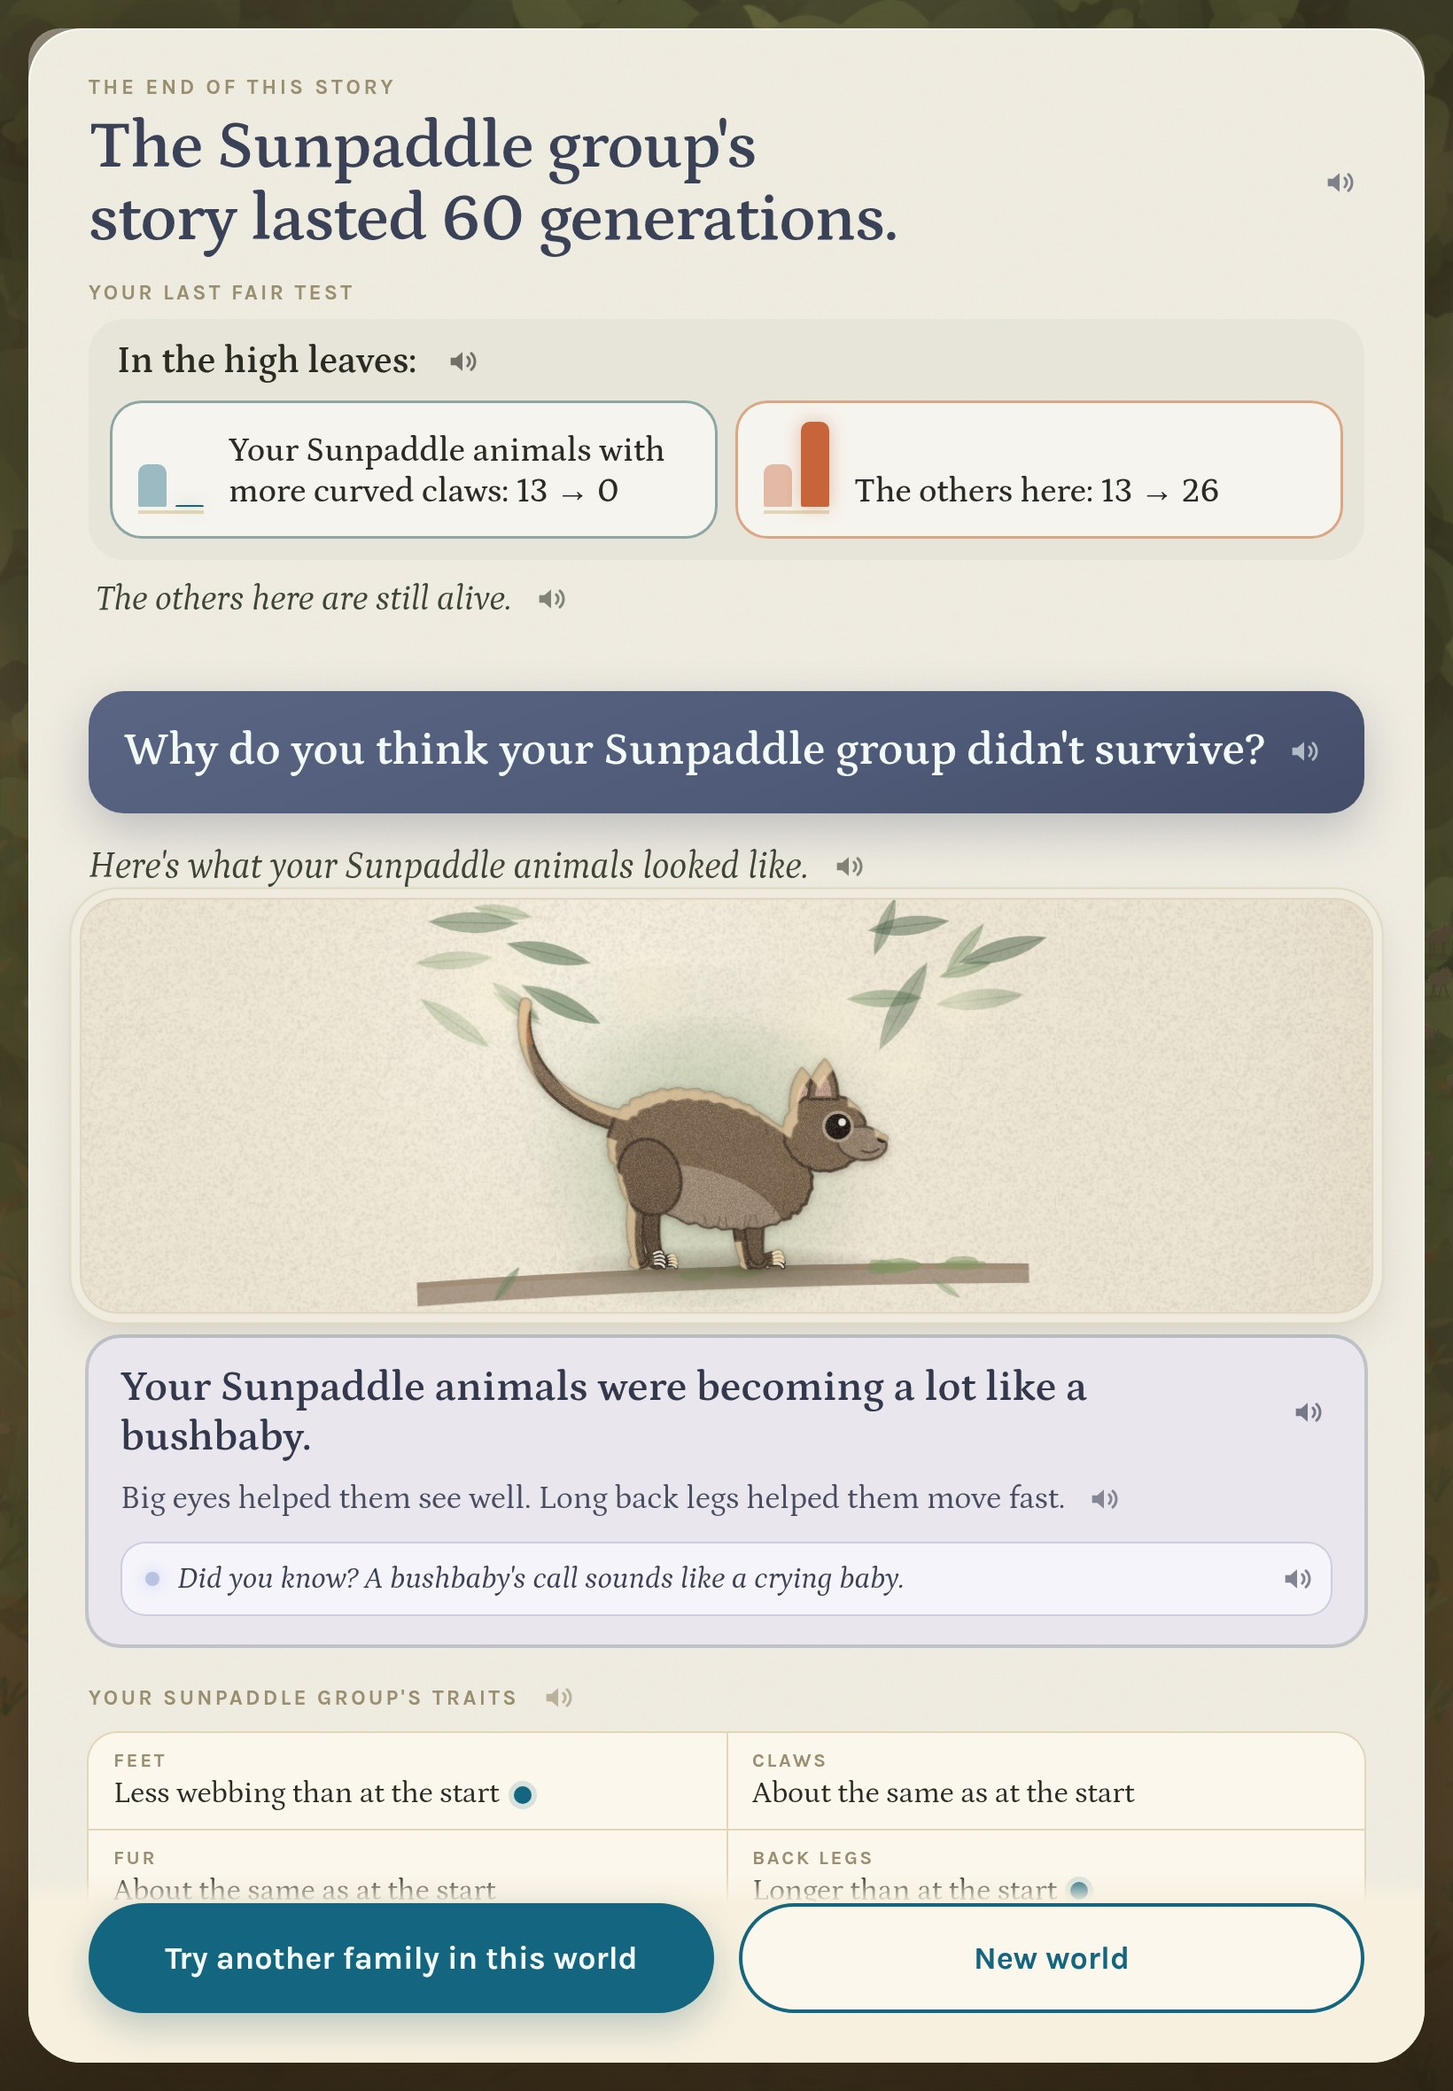
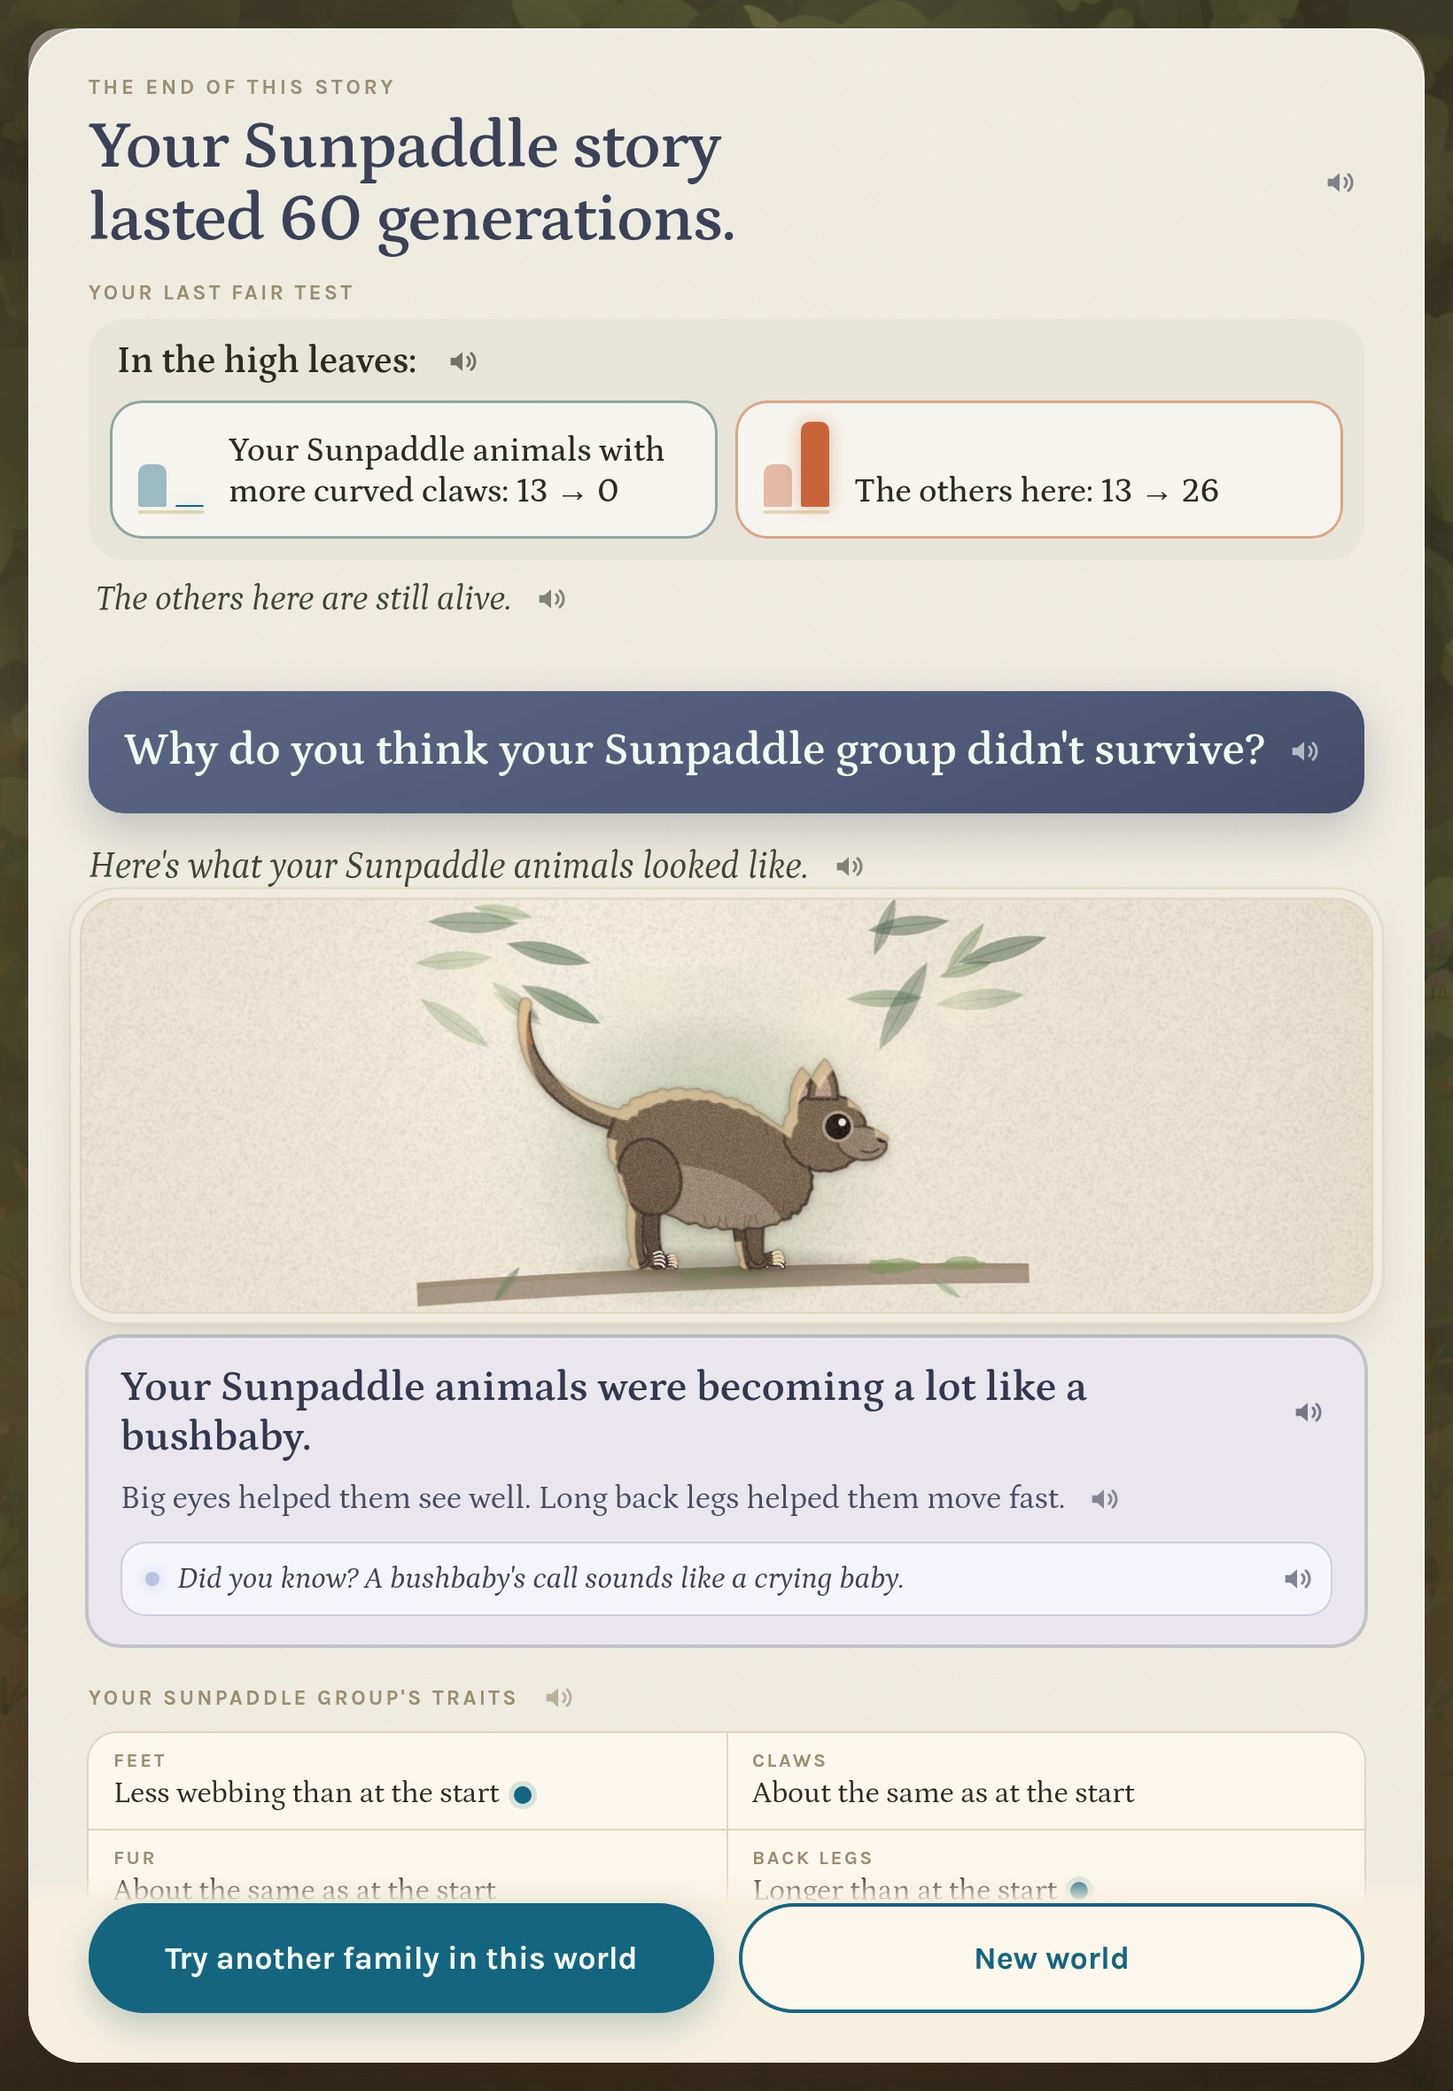
Marc's name fixes: Stonerunner, "now", the died-out title, the home button
- "Stonerunner" joins the names never made (names.js); the names doc
  is regenerated from it: 323 names.
- "Most of your Mossfoot group has webbed feet." drops "now", for
  every variant, with or without a name.
- The died-out title is "Your Mossfoot story lasted 60 generations."
  ("Your story lasted 60 generations." without a name).
- The home button says "Back to my Mossfoot family" until the first
  follow, then "Back to my Mossfoot group" ("Back to my family" /
  "Back to my group" without a name).

The died-out ending is shot again in design/after/; no other shot
shows these lines. lineage-m1 is unchanged.

Claude-Session: https://claude.ai/code/session_01GSopAEV6FFZ4i4mLAerJib

Changed region(s): [[0.0622, 0.0309, 0.622, 0.1237]]

diff --git a/game/src/narration.js b/game/src/narration.js
@@ -87,7 +87,7 @@ export function chosenLines(group, n, others, zone, skip) {
  */
 export function skipDoneLines(skip, n, others, changed, noun, name = null) {
   const lines = [`${skip} generations later: ${name ? your("animals", name) : "yours"} ${n}, the others here ${others}.`];
-  if (changed.length) lines.push(`Most of ${your(noun, name)} now has ${hasWords(changed[0].trait, changed[0].level)}.`);
+  if (changed.length) lines.push(`Most of ${your(noun, name)} has ${hasWords(changed[0].trait, changed[0].level)}.`);
   return lines;
 }
 
@@ -180,7 +180,7 @@ export const madeIt = (noun, name = null) => `${capital(your(noun, name))} made 
 
 export function endingTitle(outcome, n, noun, name = null) {
   return outcome === "died" ?
-    `${name ? `The ${name} ${noun}'s` : "Their"} story lasted ${plural(n, "generation", "generations")}.` :
+    `${capital(your("story", name))} lasted ${plural(n, "generation", "generations")}.` :
     `${capital(your(noun, name))} survived ${plural(n, "generation", "generations")}.`;
 }
 
@@ -222,5 +222,5 @@ export const lookLine = (outcome, name = null) =>
 /** The real-animal reveal (reveal.js) with the family's name: "Your Mossfoot animals became paddlers, …". */
 export const namedReveal = (line, name = null) => (name ? line.replace(/^Your animals\b/, `Your ${name} animals`) : line);
 
-/** "Back to my group", with the family's name once it has one. */
-export const homeLabel = (name = null) => `Back to my ${name ? `${name} ` : ""}group`;
+/** "Back to my family" until the first follow, then "Back to my group", with the family's name once it has one. */
+export const homeLabel = (noun, name = null) => `Back to my ${name ? `${name} ` : ""}${noun}`;

diff --git a/game/src/main.js b/game/src/main.js
@@ -430,10 +430,10 @@ export class Game {
     this.showMute();
   }
 
-  /** "Back to my group", with the family's name once it has one. */
+  /** "Back to my family" until the first follow, then "Back to my group", with the family's name once it has one. */
   setHomeLabel() {
     const text = [...this.homeEl.childNodes].find((n) => n.nodeType === 3);
-    if (text) text.nodeValue = homeLabel(this.story?.name ?? null);
+    if (text) text.nodeValue = homeLabel(this.story?.noun ?? "family", this.story?.name ?? null);
   }
 
   /**
@@ -540,6 +540,7 @@ export class Game {
    */
   doFollow(x, byChance) {
     this.story.follow(x, byChance);
+    this.setHomeLabel(); // "family" becomes "group" at the first follow
     this.syncGroups();
     this.updateCard();
     this.centerOnGroup();

diff --git a/game/src/names.js b/game/src/names.js
@@ -49,7 +49,7 @@ export const TRAIT_NAME_WORDS = {
  * List 3: names the game never makes. Besides these, no name joins two of the
  * same letter where the halves meet ("Leaffoot"), because that is hard to read.
  */
-export const NEVER = ["Grasshopper", "Leafhopper", "Sandhopper"]; // real small animals, not a family's name
+export const NEVER = ["Grasshopper", "Leafhopper", "Sandhopper", "Stonerunner"]; // real small animals, and one Marc left out
 
 /** A first half and a second half that may be joined. */
 export const joins = (start, end) => start[start.length - 1].toLowerCase() !== end[0] && !NEVER.includes(start + end);

diff --git a/game/index.html b/game/index.html
@@ -43,7 +43,7 @@
   <!-- A variation: a short caption beside the newborn that blooms (Step 4). -->
   <div id="bloom" hidden><span class="spark"></span><span id="bloom-line"></span></div>
 
-  <button id="home" type="button"><span class="ring"><i></i></span>Back to my group</button>
+  <button id="home" type="button"><span class="ring"><i></i></span>Back to my family</button>
 
   <!-- Sound on or off (Step 5): remembered on this device. -->
   <button id="mute" type="button" aria-label="Sound off" aria-pressed="false"></button>

diff --git a/docs/LINEAGE_FAMILY_NAMES.md b/docs/LINEAGE_FAMILY_NAMES.md
@@ -1,6 +1,6 @@
 # LINEAGE — family names
 
-*Step 5, part two (2026-09-26). The word lists and the naming rule, for Marc to check. The game builds every name from `game/src/names.js`; this page is written from that file, so the two always agree.*
+*Step 5, part two (2026-09-26), with Marc's changes after checking it: "Stonerunner" is never made, "now" left the "Most of your … has …" line, and the died-out title and the home button changed. The game builds every name from `game/src/names.js`; this page is written from that file, so the two always agree.*
 
 ## When a family is named
 
@@ -46,13 +46,14 @@ A name is one word made of two halves: a word for the family's **habitat** (list
 ## List 3 — names never made
 
 - **Real small animals, not a family's name:** Grasshopper, Leafhopper, Sandhopper.
+- **Left out by Marc:** Stonerunner.
 - **Same letter where the halves meet** (hard to read): Mossswish, Mossstripe, Leaffoot, Leaffur, Leaffluff, Twiggrip, Twigglide, Sanddash, Grassswish, Grassstripe, Cloverrunner, Meadowwink, Reeddash, Riverrunner, Ponddash.
 
-## Every name the game can make (324)
+## Every name the game can make (323)
 
 **The high leaves (106):** Mossfoot, Mosspaddle, Mossclaw, Mossgrip, Mossfur, Mossfluff, Mossrunner, Mosshopper, Mosstail, Mossblink, Mosswink, Mossglide, Mossdash, Mosscoat, Mosscloak, Mosstuft, Mosstip, Leafpaddle, Leafclaw, Leafgrip, Leafrunner, Leaftail, Leafswish, Leafblink, Leafwink, Leafglide, Leafdash, Leafcoat, Leafcloak, Leaftuft, Leaftip, Leafstripe, Fernfoot, Fernpaddle, Fernclaw, Ferngrip, Fernfur, Fernfluff, Fernrunner, Fernhopper, Ferntail, Fernswish, Fernblink, Fernwink, Fernglide, Ferndash, Ferncoat, Ferncloak, Ferntuft, Ferntip, Fernstripe, Twigfoot, Twigpaddle, Twigclaw, Twigfur, Twigfluff, Twigrunner, Twighopper, Twigtail, Twigswish, Twigblink, Twigwink, Twigdash, Twigcoat, Twigcloak, Twigtuft, Twigtip, Twigstripe, Vinefoot, Vinepaddle, Vineclaw, Vinegrip, Vinefur, Vinefluff, Vinerunner, Vinehopper, Vinetail, Vineswish, Vineblink, Vinewink, Vineglide, Vinedash, Vinecoat, Vinecloak, Vinetuft, Vinetip, Vinestripe, Oakfoot, Oakpaddle, Oakclaw, Oakgrip, Oakfur, Oakfluff, Oakrunner, Oakhopper, Oaktail, Oakswish, Oakblink, Oakwink, Oakglide, Oakdash, Oakcoat, Oakcloak, Oaktuft, Oaktip, Oakstripe.
 
-**The open ground (107):** Sandfoot, Sandpaddle, Sandclaw, Sandgrip, Sandfur, Sandfluff, Sandrunner, Sandtail, Sandswish, Sandblink, Sandwink, Sandglide, Sandcoat, Sandcloak, Sandtuft, Sandtip, Sandstripe, Stonefoot, Stonepaddle, Stoneclaw, Stonegrip, Stonefur, Stonefluff, Stonerunner, Stonehopper, Stonetail, Stoneswish, Stoneblink, Stonewink, Stoneglide, Stonedash, Stonecoat, Stonecloak, Stonetuft, Stonetip, Stonestripe, Grassfoot, Grasspaddle, Grassclaw, Grassgrip, Grassfur, Grassfluff, Grassrunner, Grasstail, Grassblink, Grasswink, Grassglide, Grassdash, Grasscoat, Grasscloak, Grasstuft, Grasstip, Cloverfoot, Cloverpaddle, Cloverclaw, Clovergrip, Cloverfur, Cloverfluff, Cloverhopper, Clovertail, Cloverswish, Cloverblink, Cloverwink, Cloverglide, Cloverdash, Clovercoat, Clovercloak, Clovertuft, Clovertip, Cloverstripe, Meadowfoot, Meadowpaddle, Meadowclaw, Meadowgrip, Meadowfur, Meadowfluff, Meadowrunner, Meadowhopper, Meadowtail, Meadowswish, Meadowblink, Meadowglide, Meadowdash, Meadowcoat, Meadowcloak, Meadowtuft, Meadowtip, Meadowstripe, Sunfoot, Sunpaddle, Sunclaw, Sungrip, Sunfur, Sunfluff, Sunrunner, Sunhopper, Suntail, Sunswish, Sunblink, Sunwink, Sunglide, Sundash, Suncoat, Suncloak, Suntuft, Suntip, Sunstripe.
+**The open ground (106):** Sandfoot, Sandpaddle, Sandclaw, Sandgrip, Sandfur, Sandfluff, Sandrunner, Sandtail, Sandswish, Sandblink, Sandwink, Sandglide, Sandcoat, Sandcloak, Sandtuft, Sandtip, Sandstripe, Stonefoot, Stonepaddle, Stoneclaw, Stonegrip, Stonefur, Stonefluff, Stonehopper, Stonetail, Stoneswish, Stoneblink, Stonewink, Stoneglide, Stonedash, Stonecoat, Stonecloak, Stonetuft, Stonetip, Stonestripe, Grassfoot, Grasspaddle, Grassclaw, Grassgrip, Grassfur, Grassfluff, Grassrunner, Grasstail, Grassblink, Grasswink, Grassglide, Grassdash, Grasscoat, Grasscloak, Grasstuft, Grasstip, Cloverfoot, Cloverpaddle, Cloverclaw, Clovergrip, Cloverfur, Cloverfluff, Cloverhopper, Clovertail, Cloverswish, Cloverblink, Cloverwink, Cloverglide, Cloverdash, Clovercoat, Clovercloak, Clovertuft, Clovertip, Cloverstripe, Meadowfoot, Meadowpaddle, Meadowclaw, Meadowgrip, Meadowfur, Meadowfluff, Meadowrunner, Meadowhopper, Meadowtail, Meadowswish, Meadowblink, Meadowglide, Meadowdash, Meadowcoat, Meadowcloak, Meadowtuft, Meadowtip, Meadowstripe, Sunfoot, Sunpaddle, Sunclaw, Sungrip, Sunfur, Sunfluff, Sunrunner, Sunhopper, Suntail, Sunswish, Sunblink, Sunwink, Sunglide, Sundash, Suncoat, Suncloak, Suntuft, Suntip, Sunstripe.
 
 **The water's edge (111):** Reedfoot, Reedpaddle, Reedclaw, Reedgrip, Reedfur, Reedfluff, Reedrunner, Reedhopper, Reedtail, Reedswish, Reedblink, Reedwink, Reedglide, Reedcoat, Reedcloak, Reedtuft, Reedtip, Reedstripe, Brookfoot, Brookpaddle, Brookclaw, Brookgrip, Brookfur, Brookfluff, Brookrunner, Brookhopper, Brooktail, Brookswish, Brookblink, Brookwink, Brookglide, Brookdash, Brookcoat, Brookcloak, Brooktuft, Brooktip, Brookstripe, Pebblefoot, Pebblepaddle, Pebbleclaw, Pebblegrip, Pebblefur, Pebblefluff, Pebblerunner, Pebblehopper, Pebbletail, Pebbleswish, Pebbleblink, Pebblewink, Pebbleglide, Pebbledash, Pebblecoat, Pebblecloak, Pebbletuft, Pebbletip, Pebblestripe, Riverfoot, Riverpaddle, Riverclaw, Rivergrip, Riverfur, Riverfluff, Riverhopper, Rivertail, Riverswish, Riverblink, Riverwink, Riverglide, Riverdash, Rivercoat, Rivercloak, Rivertuft, Rivertip, Riverstripe, Ripplefoot, Ripplepaddle, Rippleclaw, Ripplegrip, Ripplefur, Ripplefluff, Ripplerunner, Ripplehopper, Rippletail, Rippleswish, Rippleblink, Ripplewink, Rippleglide, Rippledash, Ripplecoat, Ripplecloak, Rippletuft, Rippletip, Ripplestripe, Pondfoot, Pondpaddle, Pondclaw, Pondgrip, Pondfur, Pondfluff, Pondrunner, Pondhopper, Pondtail, Pondswish, Pondblink, Pondwink, Pondglide, Pondcoat, Pondcloak, Pondtuft, Pondtip, Pondstripe.
 
@@ -69,7 +70,7 @@ Everywhere the child's animals are named, once the family has its name. Before t
 | The log, and the caption on the map | "One of your babies was born with thicker fur." | "One of your Mossfoot babies was born with thicker fur." |
 | The log | "Two of your babies were born with something new." | "Two of your Mossfoot babies were born with something new." |
 | The log | "2 generations later: yours 23, the others here 20." | "2 generations later: your Mossfoot animals 23, the others here 20." |
-| The log | "Most of your group now has webbed feet." | "Most of your Mossfoot group now has webbed feet." |
+| The log | "Most of your group now has webbed feet." | "Most of your Mossfoot group has webbed feet." ("now" left this line, with or without a name: "Most of your group has webbed feet.") |
 | The log | "Wait! Your family is getting very small." | "Wait! Your Mossfoot family is getting very small." |
 | The log | "The last of your group has passed." | "The last of your Mossfoot group has passed." |
 | The log | "Your group made it to the end of the story." | "Your Mossfoot group made it to the end of the story." |
@@ -79,7 +80,7 @@ Everywhere the child's animals are named, once the family has its name. Before t
 | Count rows (predictions, ending) | "Yours: 11 → 5" | "Your Mossfoot animals: 11 → 5" |
 | Since, ending | "Your group grew because of its other traits." | "Your Mossfoot group grew because of its other traits." |
 | The corner panel | "… · your family 21" | "… · your Mossfoot family 21" |
-| The button | "Back to my group" | "Back to my Mossfoot group" |
+| The button | "Back to my group" | "Back to my Mossfoot family" before the first follow, "Back to my Mossfoot group" after it (without a name: "Back to my family", "Back to my group") |
 | A prediction | "Will your new group grow or shrink?" | "Will your new Mossfoot group grow or shrink?" |
 | A prediction | "Which will do better: yours or the others here?" | "Which will do better: your Mossfoot animals or the others here?" |
 | A prediction's answers | "Yours. A sleeker body helps at the water's edge." | "Your Mossfoot animals. A sleeker body helps at the water's edge." |
@@ -88,7 +89,7 @@ Everywhere the child's animals are named, once the family has its name. Before t
 | A prediction's answers | "Yours. A darker coat will help them." | "Your Mossfoot animals. A darker coat will help them." |
 | A prediction's result | "You thought yours would do better. Yours did." | "You thought your Mossfoot animals would do better. Your Mossfoot animals did." |
 | The ending title | "Your group survived 76 generations." | "Your Mossfoot group survived 76 generations." |
-| The ending title, died out | "Their story lasted 60 generations." | "The Mossfoot group's story lasted 60 generations." |
+| The ending title, died out | "Their story lasted 60 generations." | "Your Mossfoot story lasted 60 generations." (without a name: "Your story lasted 60 generations.") |
 | The ending | "Here's what your animals look like now." | "Here's what your Mossfoot animals look like now." |
 | The ending | "Here's what your animals looked like." | "Here's what your Mossfoot animals looked like." |
 | The ending | "Your group's traits" | "Your Mossfoot group's traits" |
@@ -100,9 +101,9 @@ Everywhere the child's animals are named, once the family has its name. Before t
 
 **Unchanged:** "You're following a family of 12 animals in the high leaves." is said before the family has a name. Lines that don't name the child's animals stay as they were ("The others here", "Their story ended before the first choice.", "Your choice doesn't change the animals.").
 
-**Longest lines with a name.** A name is one word, so most lines grow by one word. Four reach 13 or 14 words with the longest trait words:
+**Longest lines with a name.** A name is one word, so most lines grow by one word. Four reach 13 words with the longest trait words (Marc: fine):
 
-- "One of your Mossfoot babies was born with less webbing between the toes." (13)
-- "Your Mossfoot animals live between land and water, a lot like a capybara." (13)
-- "Your Mossfoot animals. Less webbing between the toes helps at the water's edge." (13)
-- "Most of your Mossfoot group now has a faint mark on the tail tip." (14; 13 without the name)
+- "One of your Mossfoot babies was born with less webbing between the toes."
+- "Your Mossfoot animals live between land and water, a lot like a capybara."
+- "Your Mossfoot animals. Less webbing between the toes helps at the water's edge."
+- "Most of your Mossfoot group has a faint mark on the tail tip."

diff --git a/game/README.md b/game/README.md
@@ -98,8 +98,8 @@ A story that lasts takes about 19 minutes at most, less for each fast-forward.
    starts one included), in that panel or in its own sheet, with the prediction made then beside
    what happened.
 5. **The camera.** Your group may spread across habitats. Every member stands in a soft glow,
-   and "Back to my group" goes to the group's largest cluster.
-6. **Endings.** The story ends when no living animal fits the group ("Their story lasted N
+   and "Back to my group" ("Back to my family" before the first follow) goes to the group's largest cluster.
+6. **Endings.** The story ends when no living animal fits the group ("Your story lasted N
    generations.") or at generation 76 ("Your group survived 76 generations."). The
    reflection screen shows:
    - "Here's what your animals look like now." (or "looked like", if they died out): the group's
